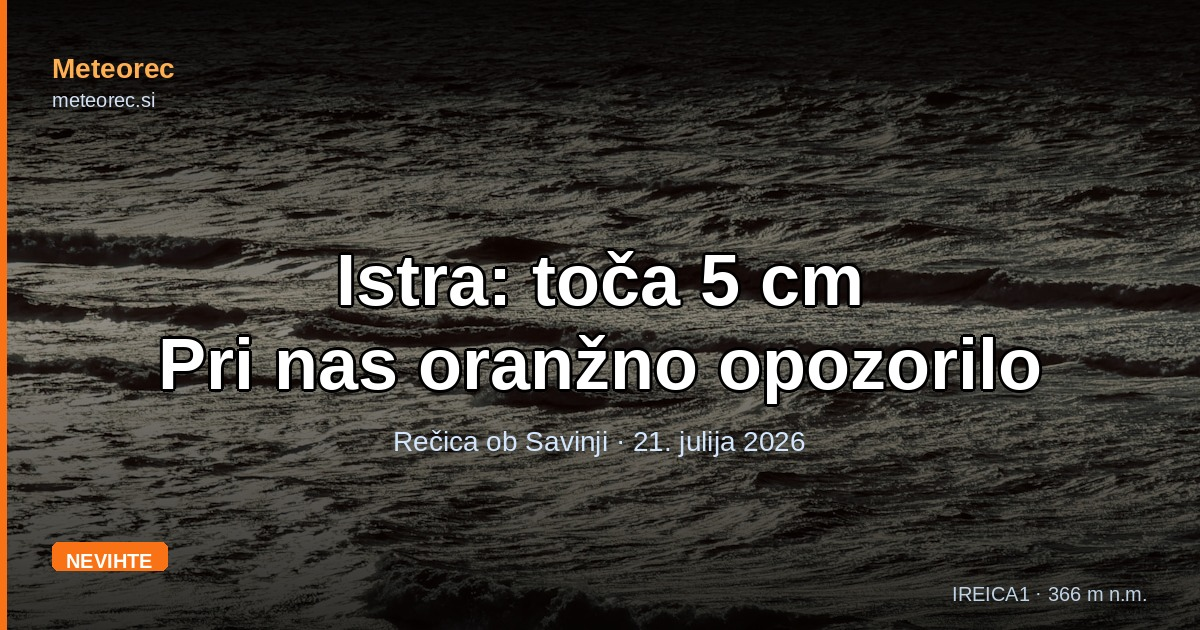
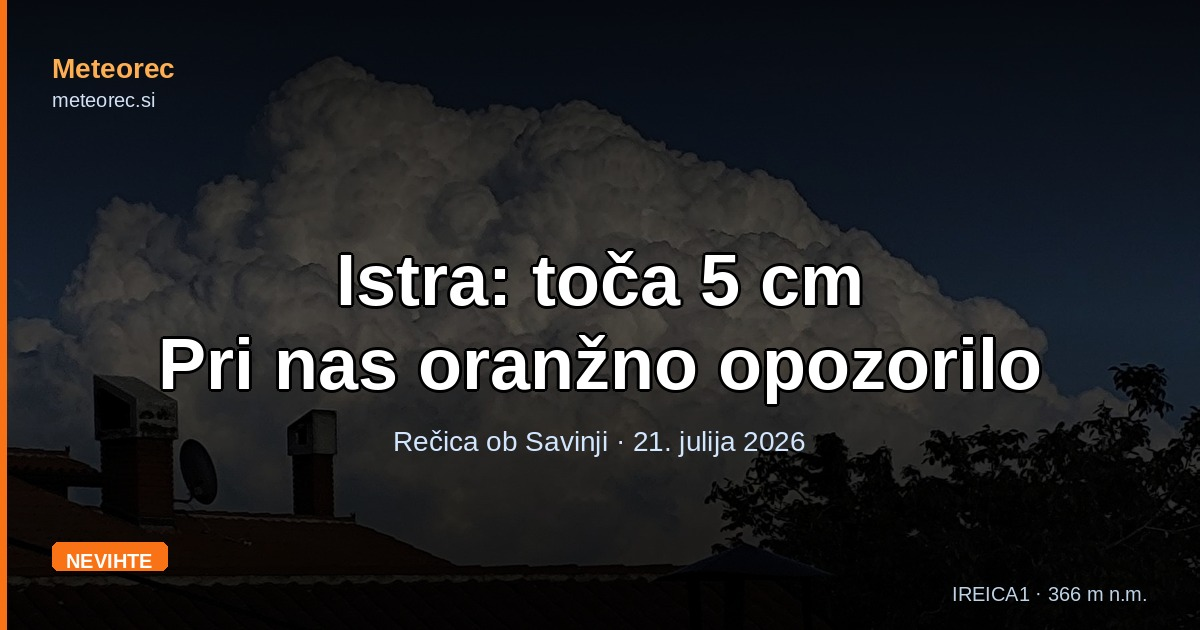
Dodaj lastne fotografije nevihte v članek, popravi podvojen pomišljaj (#548)
Dve Filipovi fotografiji (kumulonimbus nad Istro, nevihtni oblak nad
Zgornjo Savinjsko dolino) vključeni v ustrezna odseka. OG slika za
deljenje zamenjana s fotografijo iz Istre namesto stock ozadja.
Popravljen podvojen pomišljaj, ki ga je uvedla samodejna lektura.

Claude-Session: https://claude.ai/code/session_01UkFL8Xbp3xZzcbQr2dLoCP

diff --git a/blog/medtem-ko-istro-pustosi-5-centimetrska-toca-pri-nas-velja-or-0721.html b/blog/medtem-ko-istro-pustosi-5-centimetrska-toca-pri-nas-velja-or-0721.html
@@ -97,7 +97,7 @@
     <h1>Medtem ko Istro pustoši 5-centimetrska toča, pri nas velja oranžno opozorilo za nevihte</h1>
     <p class="post-meta">21. julija 2026 · Filip Eremita</p>
 
-    <p class="lead">Medtem ko dopustnike na hrvaški obali danes zjutraj budi pravi meteorološki spektakel — po Istri so se sprehodile štiri supercelične nevihte s točo, debelo kot pest — — je Agencija RS za okolje (ARSO) tudi za naš del Slovenije razglasila oranžno opozorilo za nevihte. Kaj se dogaja v Istri in kaj to pomeni za Zgornjo Savinjsko dolino do večera?</p>
+    <p class="lead">Medtem ko dopustnike na hrvaški obali danes zjutraj budi pravi meteorološki spektakel — po Istri so se sprehodile štiri supercelične nevihte s točo, debelo kot pest — je Agencija RS za okolje (ARSO) tudi za naš del Slovenije razglasila oranžno opozorilo za nevihte. Kaj se dogaja v Istri in kaj to pomeni za Zgornjo Savinjsko dolino do večera?</p>
 
     <div class="stat-grid">
       <div class="stat-card c-warn">
@@ -133,11 +133,21 @@
     <p>Nad Jadranom so se v jutranjih urah razvile štiri supercelične nevihte, ki so prizadele predvsem območje Rovinja in Pulja. Najdebelejša izmerjena toča je dosegla premer več kot 5 centimetrov — po poročanju portala IstraMet gre za eno največjih zrn toče v regiji v zadnjih letih. V kampu Amarin pri Rovinju so poškodovani avtomobili, šotori, prikolice in kamping oprema, prihajajo pa tudi prva poročila o lažje poškodovanih osebah.</p>
     <p>Ena od neviht se je medtem že premaknila proti Žminju, kjer prav tako lahko pade toča. Hrvaški hidrometeorološki zavod (DHMZ) opozarja, da bodo neurja ob Jadranu predvidoma vztrajala še ves dan, zato je za večji del jadranske obale izdal oranžno opozorilo.</p>
 
+    <figure class="post-photo">
+      <img src="/img/blog/medtem-ko-istro-pustosi-5-centimetrska-toca-pri-nas-velja-or-0721/foto-2.jpg" alt="Velik kumulonimbus za strehami istrskih hiš v poznem popoldanskem soncu." loading="lazy">
+      <figcaption>Nevihtni oblak nad Istro. Foto: Filip Eremita.</figcaption>
+    </figure>
+
     <span class="section-label">02 — Kaj to pomeni pri nas</span>
     <h2 id="kaj-to-pomeni-za-zgornjo-savinjsko-dolino">Kaj to pomeni za Zgornjo Savinjsko dolino</h2>
     <p>Podobne vremenske razmere — vroč in vlažen zrak nad Jadranom ter Alpami, ki ga popoldne dodatno segreje sončno obsevanje — so razlog, da je ARSO oranžno opozorilo izdal tudi za severovzhodno Slovenijo, kamor spada naš konec. Opozorilo velja od 12.00 do 20.59 ter napoveduje ponekod obilne padavine, točo in nevarne sunke vetra. Poleg tega veljata še rumeno opozorilo za veter (11.00–19.59) in oranžno opozorilo pred požarno ogroženostjo, ki bo trajalo do jutrišnjega večera.</p>
     <p>Na postaji IREICA1 je bilo dopoldne mirno: namerili smo 22,7 °C, veter je bil praktično brez sunkov, zračni tlak pa razmeroma visok (1018,7 hPa) — razmere torej pred nevihtno sprožitvijo. Napoved za danes kaže dnevni maksimum okoli 23,7 °C in približno 6,8 mm padavin. Model kaže, da je najverjetnejši čas za nevihtno aktivnost v poznih popoldanskih in večernih urah (okoli 19. ure pričakujemo krajši, a intenzivnejši naliv).</p>
     <p>Konvektivna energija (CAPE) v naši dolini sicer ne dosega ravni, ki bi bila potrebna za nastanek supercelic, kakršne pustošijo po Istri, toda krajevni izbruhi s točo in sunki vetra so ob takšnem opozorilu vseeno realna možnost. Numerični modeli namreč takšne kratkotrajne pojave pogosto podcenijo.</p>
+
+    <figure class="post-photo">
+      <img src="/img/blog/medtem-ko-istro-pustosi-5-centimetrska-toca-pri-nas-velja-or-0721/foto-1.jpg" alt="Temen nevihtni oblak nad travniki in gozdom v Zgornji Savinjski dolini." loading="lazy">
+      <figcaption>Nevihtni oblak nad dolino pred izbruhom padavin. Foto: Filip Eremita.</figcaption>
+    </figure>
 
     <div class="callout">
       <h3 style="margin:0 0 .6rem;font-size:.95rem">Kaj storiti do večera</h3>